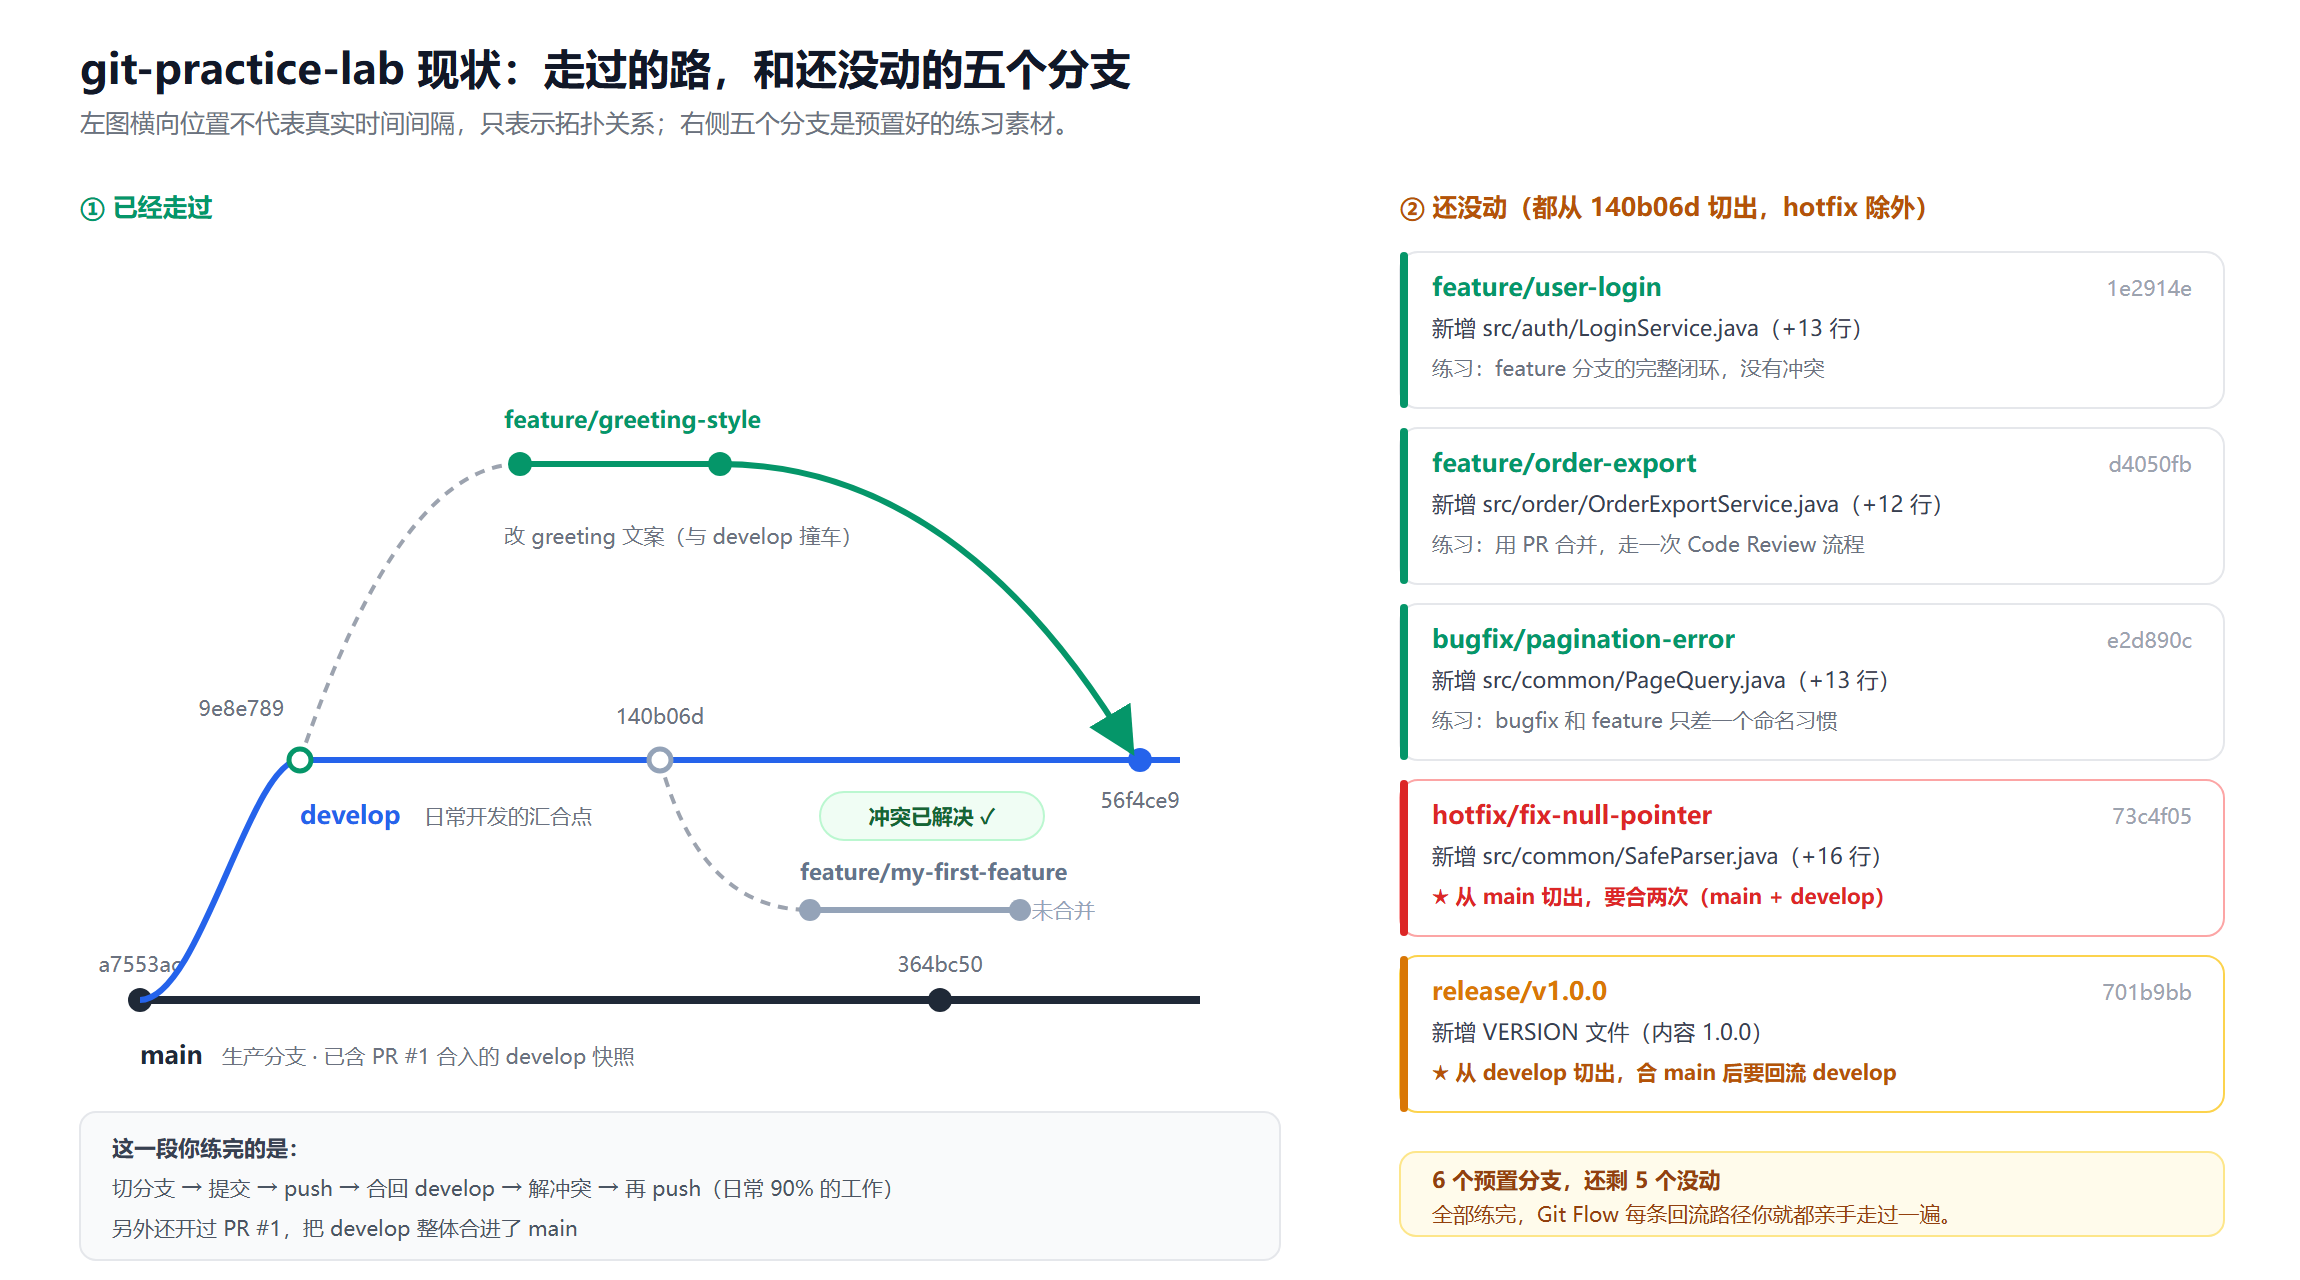
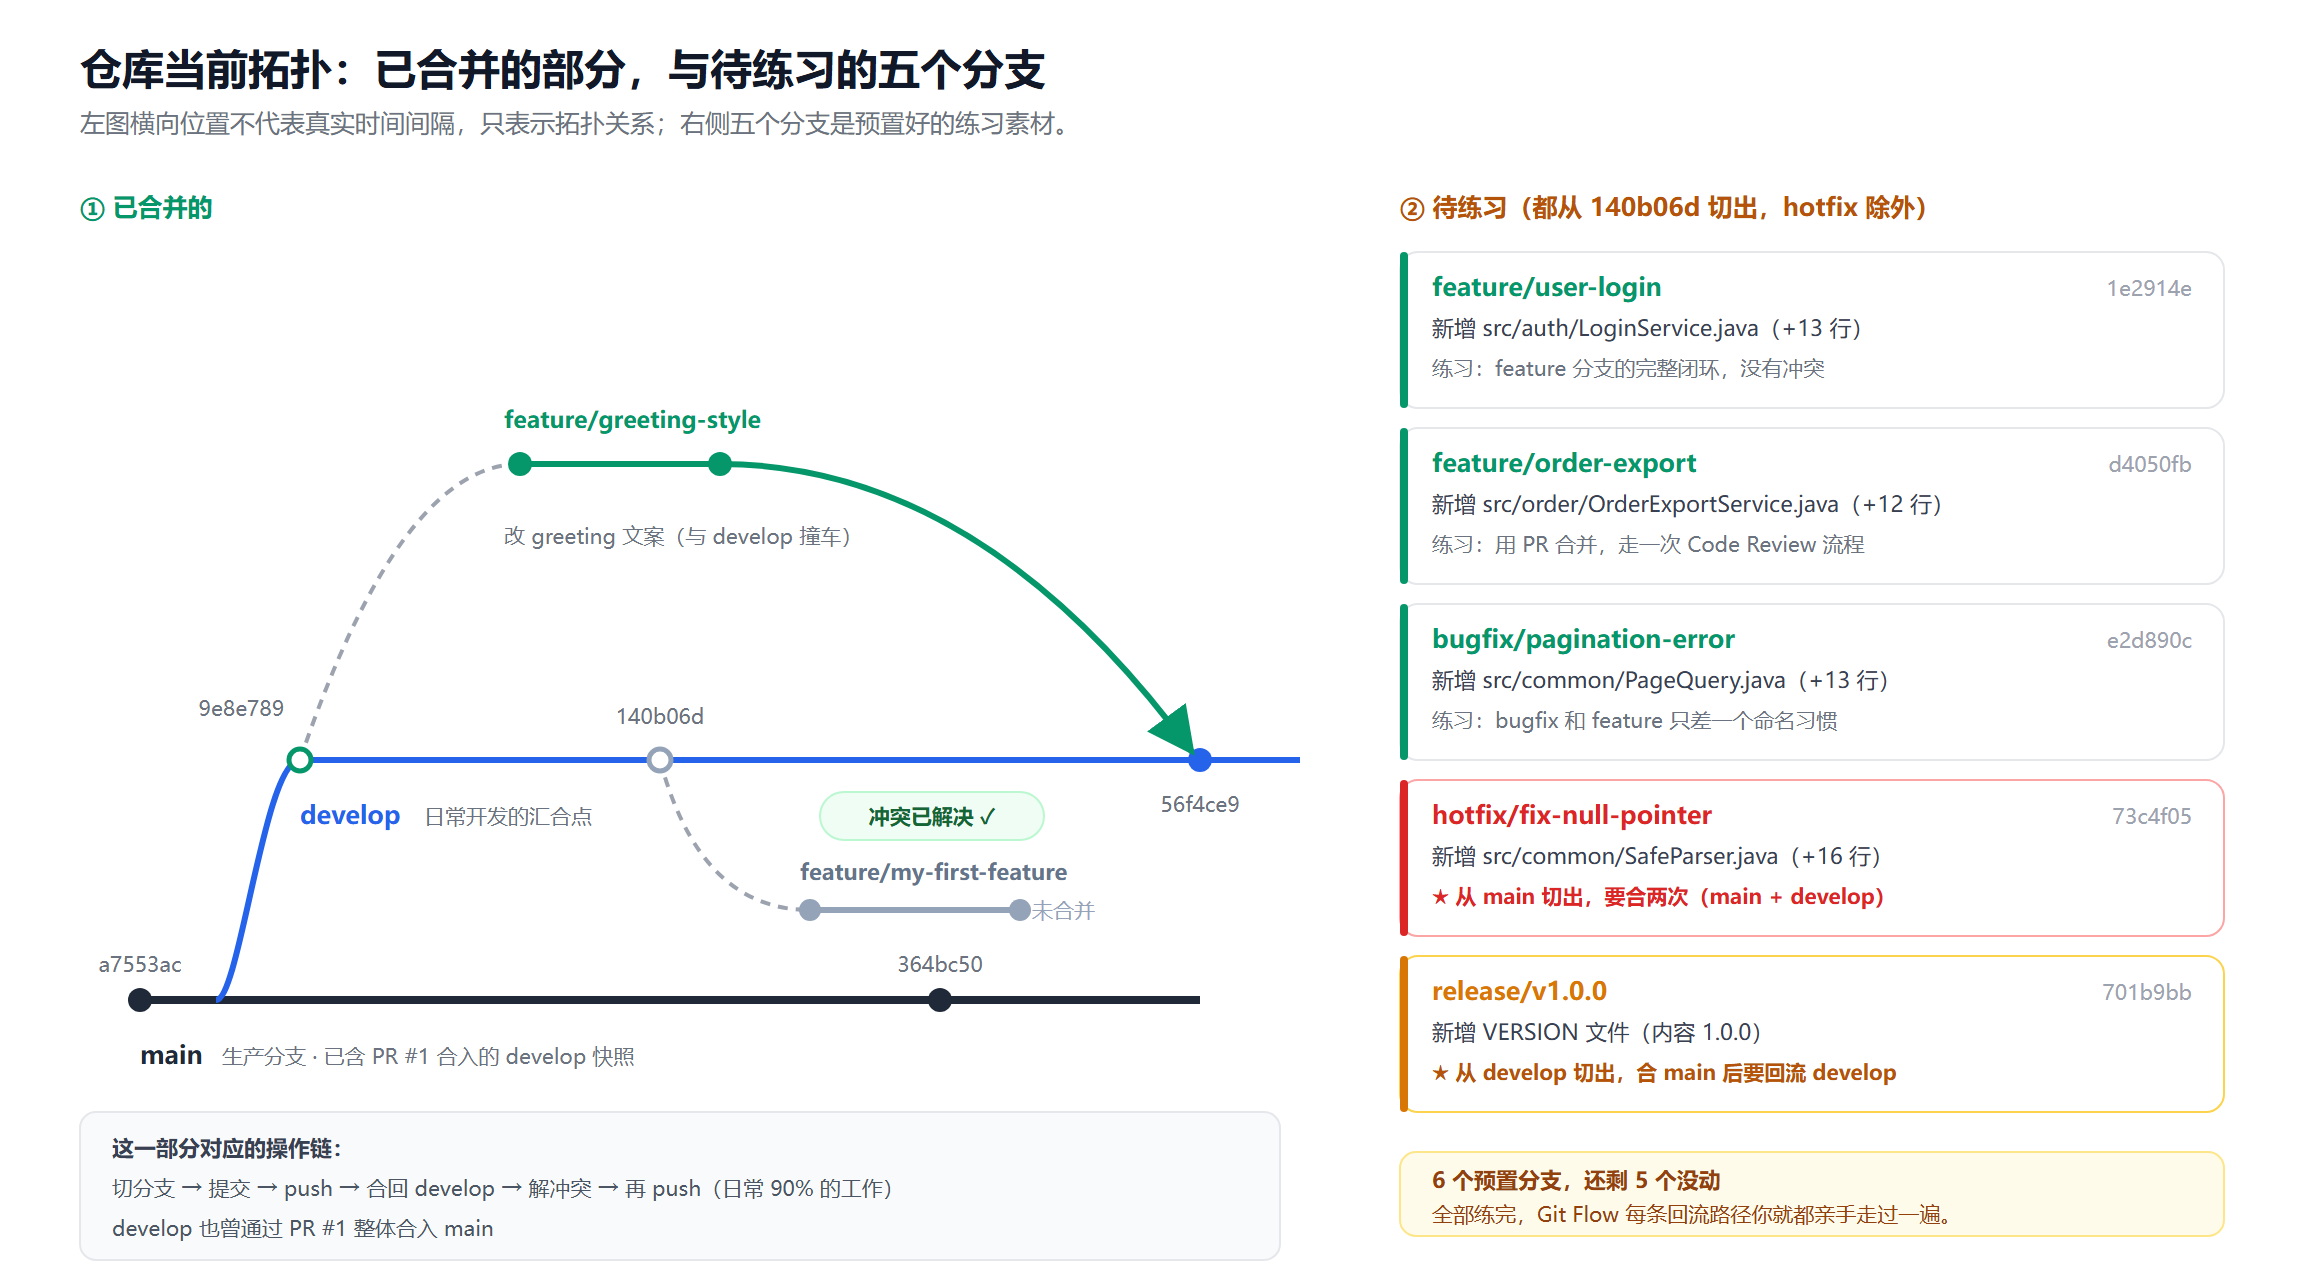
docs: 改为通用练习版，去除个人操作痕迹
面向他人练习，不再假设读者是仓库作者：
- 去掉「你之前做过」「你上次」「已经走过」等表述，练习 1 不再标注已完成
- 本地路径改为通用说法，命令统一为 cd git-practice-lab
- 图 2 标题与标注中性化，重新渲染 PNG
- 代理报错去掉具体端口 65532，补全清环境变量的写法

diff --git a/docs/Git协作练习手册.md b/docs/Git协作练习手册.md
@@ -1,7 +1,7 @@
 # Git 分支协作练习手册
 
 > 配套仓库：`git-practice-lab`
-> 本地路径：`D:\ai\git练习`　远端：https://github.com/elthereal-star/git-practice-lab
+> 仓库地址：https://github.com/elthereal-star/git-practice-lab　（clone 到哪个目录由你决定）
 > 手册版本：2026-11-13　预计耗时：2～3 小时（可拆成三次）
 
 这个仓库不是用来写代码的，是用来**把 Git 的分支规则练成本能**的。里面的每个分支都模拟了真实后端团队会遇到的场景：日常功能、普通 bug、线上紧急修复、发版准备，以及一次故意制造的冲突。
@@ -16,7 +16,7 @@
 
 | 项目 | 值 |
 | --- | --- |
-| 本地路径 | `D:\ai\git练习` |
+| 本地目录 | 你自己 clone 的位置，下文统称 `git-practice-lab` |
 | 远端地址 | `https://github.com/elthereal-star/git-practice-lab.git` |
 | 默认分支 | `main` |
 | 当前所在分支 | `develop` |
@@ -27,7 +27,7 @@
 每次动手前先跑这三条，确认状态干净、和远端对齐：
 
 ```bash
-cd "D:/ai/git练习"
+cd git-practice-lab
 git status
 git branch -a
 git log --oneline --graph --all --decorate -15
@@ -37,7 +37,7 @@ git log --oneline --graph --all --decorate -15
 
 ### 0.3 用 IDEA 打开
 
-`File → Open → 选 D:\ai\git练习`。右下角会显示当前分支，点击可以直接切分支，比敲命令直观。**但练习时建议先敲命令，再用 IDEA 核对结果** —— 面试不会考 IDEA 按钮在哪。
+`File → Open → 选你 clone 下来的 git-practice-lab 目录`。右下角会显示当前分支，点击可以直接切分支，比敲命令直观。**但练习时建议先敲命令，再用 IDEA 核对结果** —— 面试不会考 IDEA 按钮在哪。
 
 ---
 
@@ -45,9 +45,9 @@ git log --oneline --graph --all --decorate -15
 
 ![仓库现状](images/topology-current.png)
 
-左边是你已经走过的路：从 `main` 切出 `develop`，在 `develop` 上提交了两次，然后 `feature/greeting-style` 改了同一行代码造成冲突，你把它解开合回了 `develop`（合并提交 `56f4ce9`）。之后还开过 **PR #1**，把 `develop` 整体合进了 `main`（`364bc50`）。另外推了一个 `feature/my-first-feature` 上去，内容只是加了一行注释，**没合并**。
+左边是仓库里已经合并掉的部分：`develop` 从 `main` 切出后提交了两次；`feature/greeting-style` 与它改到同一行、产生冲突，随后被解决并合入（合并提交 `56f4ce9`）；之后 `develop` 又整体通过 PR #1 合进了 `main`（`364bc50`）。`feature/my-first-feature` 只加了一行注释，**尚未合并**。
 
-⚠ 有一个坑必须先说清楚：**远端 `main` 已经是 `364bc50`，但如果你从没在本地拉过，本地 `main` 还会停在最初的 `a7553ac`。** 练习 5 和 6 都要在 `main` 上操作，动手前务必先同步：
+⚠ 开始前先确认 `main` 停在 `364bc50`。练习 5 和 6 都要在 `main` 上操作，起点错了后面全乱：
 
 ```bash
 git checkout main
@@ -55,7 +55,7 @@ git pull
 git log --oneline -3        # 应该看到 364bc50 Merge pull request #1
 ```
 
-如果你的本地 `main` 没有这条记录，就说明拉取失败（多半是代理问题，见练习 2 末尾的绕过方法）。
+如果只看到 `a7553ac chore: initial commit`，说明你的副本太旧，先 `git pull`；拉取失败多半是代理问题，见练习 2 末尾的绕过方法。
 
 右边是六个预置分支里还没动的五个。注意它们的切出点：
 
@@ -102,9 +102,9 @@ git log --oneline -3        # 应该看到 364bc50 Merge pull request #1
 
 八个练习按依赖顺序排，前四个是主干，后两个是重点，最后两个是进阶。每个练习都是「目标 → 命令 → 验收」，命令可以直接复制。
 
-### 练习 1　feature 闭环（已完成，当复习看）
+### 练习 1　feature 闭环
 
-你之前做过，这里只回顾一遍完整的六步，后面所有练习都是它的变体：
+这是所有后续练习的基础，先完整走一遍这六步：
 
 ```bash
 git checkout develop
@@ -129,7 +129,7 @@ git branch -d feature/xxx           # 6. 删掉本地分支
 **目标**：走一次完整的 Pull Request 流程，理解"代码评审"发生在哪一步。
 
 ```bash
-cd "D:/ai/git练习"
+cd git-practice-lab
 git fetch origin
 git checkout -b feature/order-export origin/feature/order-export
 git log --oneline -1
@@ -157,7 +157,7 @@ git log --oneline -3   # 应该有一条 "Merge pull request #N"
 
 **这里要体会的是**：`Merge pull request` 默认生成的是一个 **merge commit**（两个父提交），不是把提交重新排一遍。所以历史里能清楚看到"这个功能是通过哪个 PR、什么时候合进来的"。
 
-> 如果 `git push` 卡住或报 `Failed to connect`，是你机器上的代理配置残留（`http.proxy` 指向了一个没启动的端口）。临时绕过：
+> 如果 `git push` 卡住或报 `Failed to connect`，通常是本地配了代理、但代理并没在运行（`http.proxy` 指向一个没人监听的端口）。临时绕过：
 > ```bash
 > git -c http.proxy= -c https.proxy= push origin develop
 > ```
@@ -200,12 +200,12 @@ public static int toOffset(int page, int size) {
 
 **目标**：亲手制造一次冲突，然后解开。
 
-⚠ 注意：**这个冲突你之前已经解决过一次了**（`develop` 上的 `56f4ce9` 就是那次的产物）。所以要先把这个练习"重开一局"。
+⚠ 注意：**仓库的 `develop` 上，这个冲突已经被解决并合入了**（提交 `56f4ce9`）。直接合并不会再报冲突，所以要先把这个练习"重开一局"。
 
 #### 4.1 重置到冲突发生前
 
 ```bash
-cd "D:/ai/git练习"
+cd git-practice-lab
 git status                          # 必须是 clean
 git checkout develop
 git reset --hard 140b06d            # 回到"greeting 已改、还没合并"的状态
@@ -260,7 +260,7 @@ Automatic merge failed; fix conflicts and then commit the result.
 | 留 B（incoming 那侧） | 你的改动被对方的新方案取代了 |
 | 两个都不要，重写一行 | 双方改的都不完整，需要合并语义 |
 
-你上次的解法是第三种 —— 两边的文案都没留，改回了最朴素的 `"Hello, Backend!"`。这说明**合并结果可以由你决定，Git 只负责把选项摆出来**。
+上面的示例用的是第三种 —— 两边的文案都没留，改成了一行新的 `"Hello, Backend!"`。这说明**合并结果可以由你决定，Git 只负责把选项摆出来**。
 
 改完是这样：
 
@@ -507,7 +507,7 @@ rm tmp.txt                     # 删掉临时文件
 | `fatal: The current branch has no upstream branch` | 新分支没关联远端 | `git push -u origin 分支名` |
 | 合并后发现自己解错了 | 还没提交 | `git merge --abort` |
 | 合并提交已经生成但想反悔 | 已提交 | `git reset --hard ORIG_HEAD` |
-| `Failed to connect to 127.0.0.1 port 65532` | 代理配置指向了没启动的端口 | `git -c http.proxy= -c https.proxy= push` |
+| `Failed to connect to 127.0.0.1 port xxxxx` | 本地配了代理但代理没运行 | `env -u http_proxy -u https_proxy git -c http.proxy= -c https.proxy= push` |
 
 ---
 

diff --git a/README.md b/README.md
@@ -41,11 +41,11 @@ git log --oneline --graph --all --decorate -15
 
 ![仓库现状](docs/images/topology-current.png)
 
-`main` 目前停在 `364bc50` —— 那是 PR #1 把 `develop` 整体合进来的那次合并。如果你本地 `main` 还显示 `a7553ac`（initial commit），说明从没拉过，练习 5、6 之前务必先 `git checkout main && git pull`。
+`main` 目前停在 `364bc50` —— 那是 PR #1 把 `develop` 整体合进来的那次合并。如果你的副本里 `main` 显示 `a7553ac`（initial commit），先 `git checkout main && git pull`。
 
 | 分支 | 改动 | 练习 | 状态 |
 | --- | --- | --- | --- |
-| `feature/greeting-style` | 改 greeting 文案，与 develop 冲突 | 练习 4 | ✅ 已合并（含冲突解决） |
+| `feature/greeting-style` | 改 greeting 文案，与 develop 冲突 | 练习 4 | 已合并（练冲突前需重置） |
 | `feature/order-export` | 新增 `src/order/OrderExportService.java` | 练习 2 | ⬜ 待练 |
 | `bugfix/pagination-error` | 新增 `src/common/PageQuery.java` | 练习 3 | ⬜ 待练 |
 | `hotfix/fix-null-pointer` | 新增 `src/common/SafeParser.java` | 练习 5 | ⬜ 待练 |
